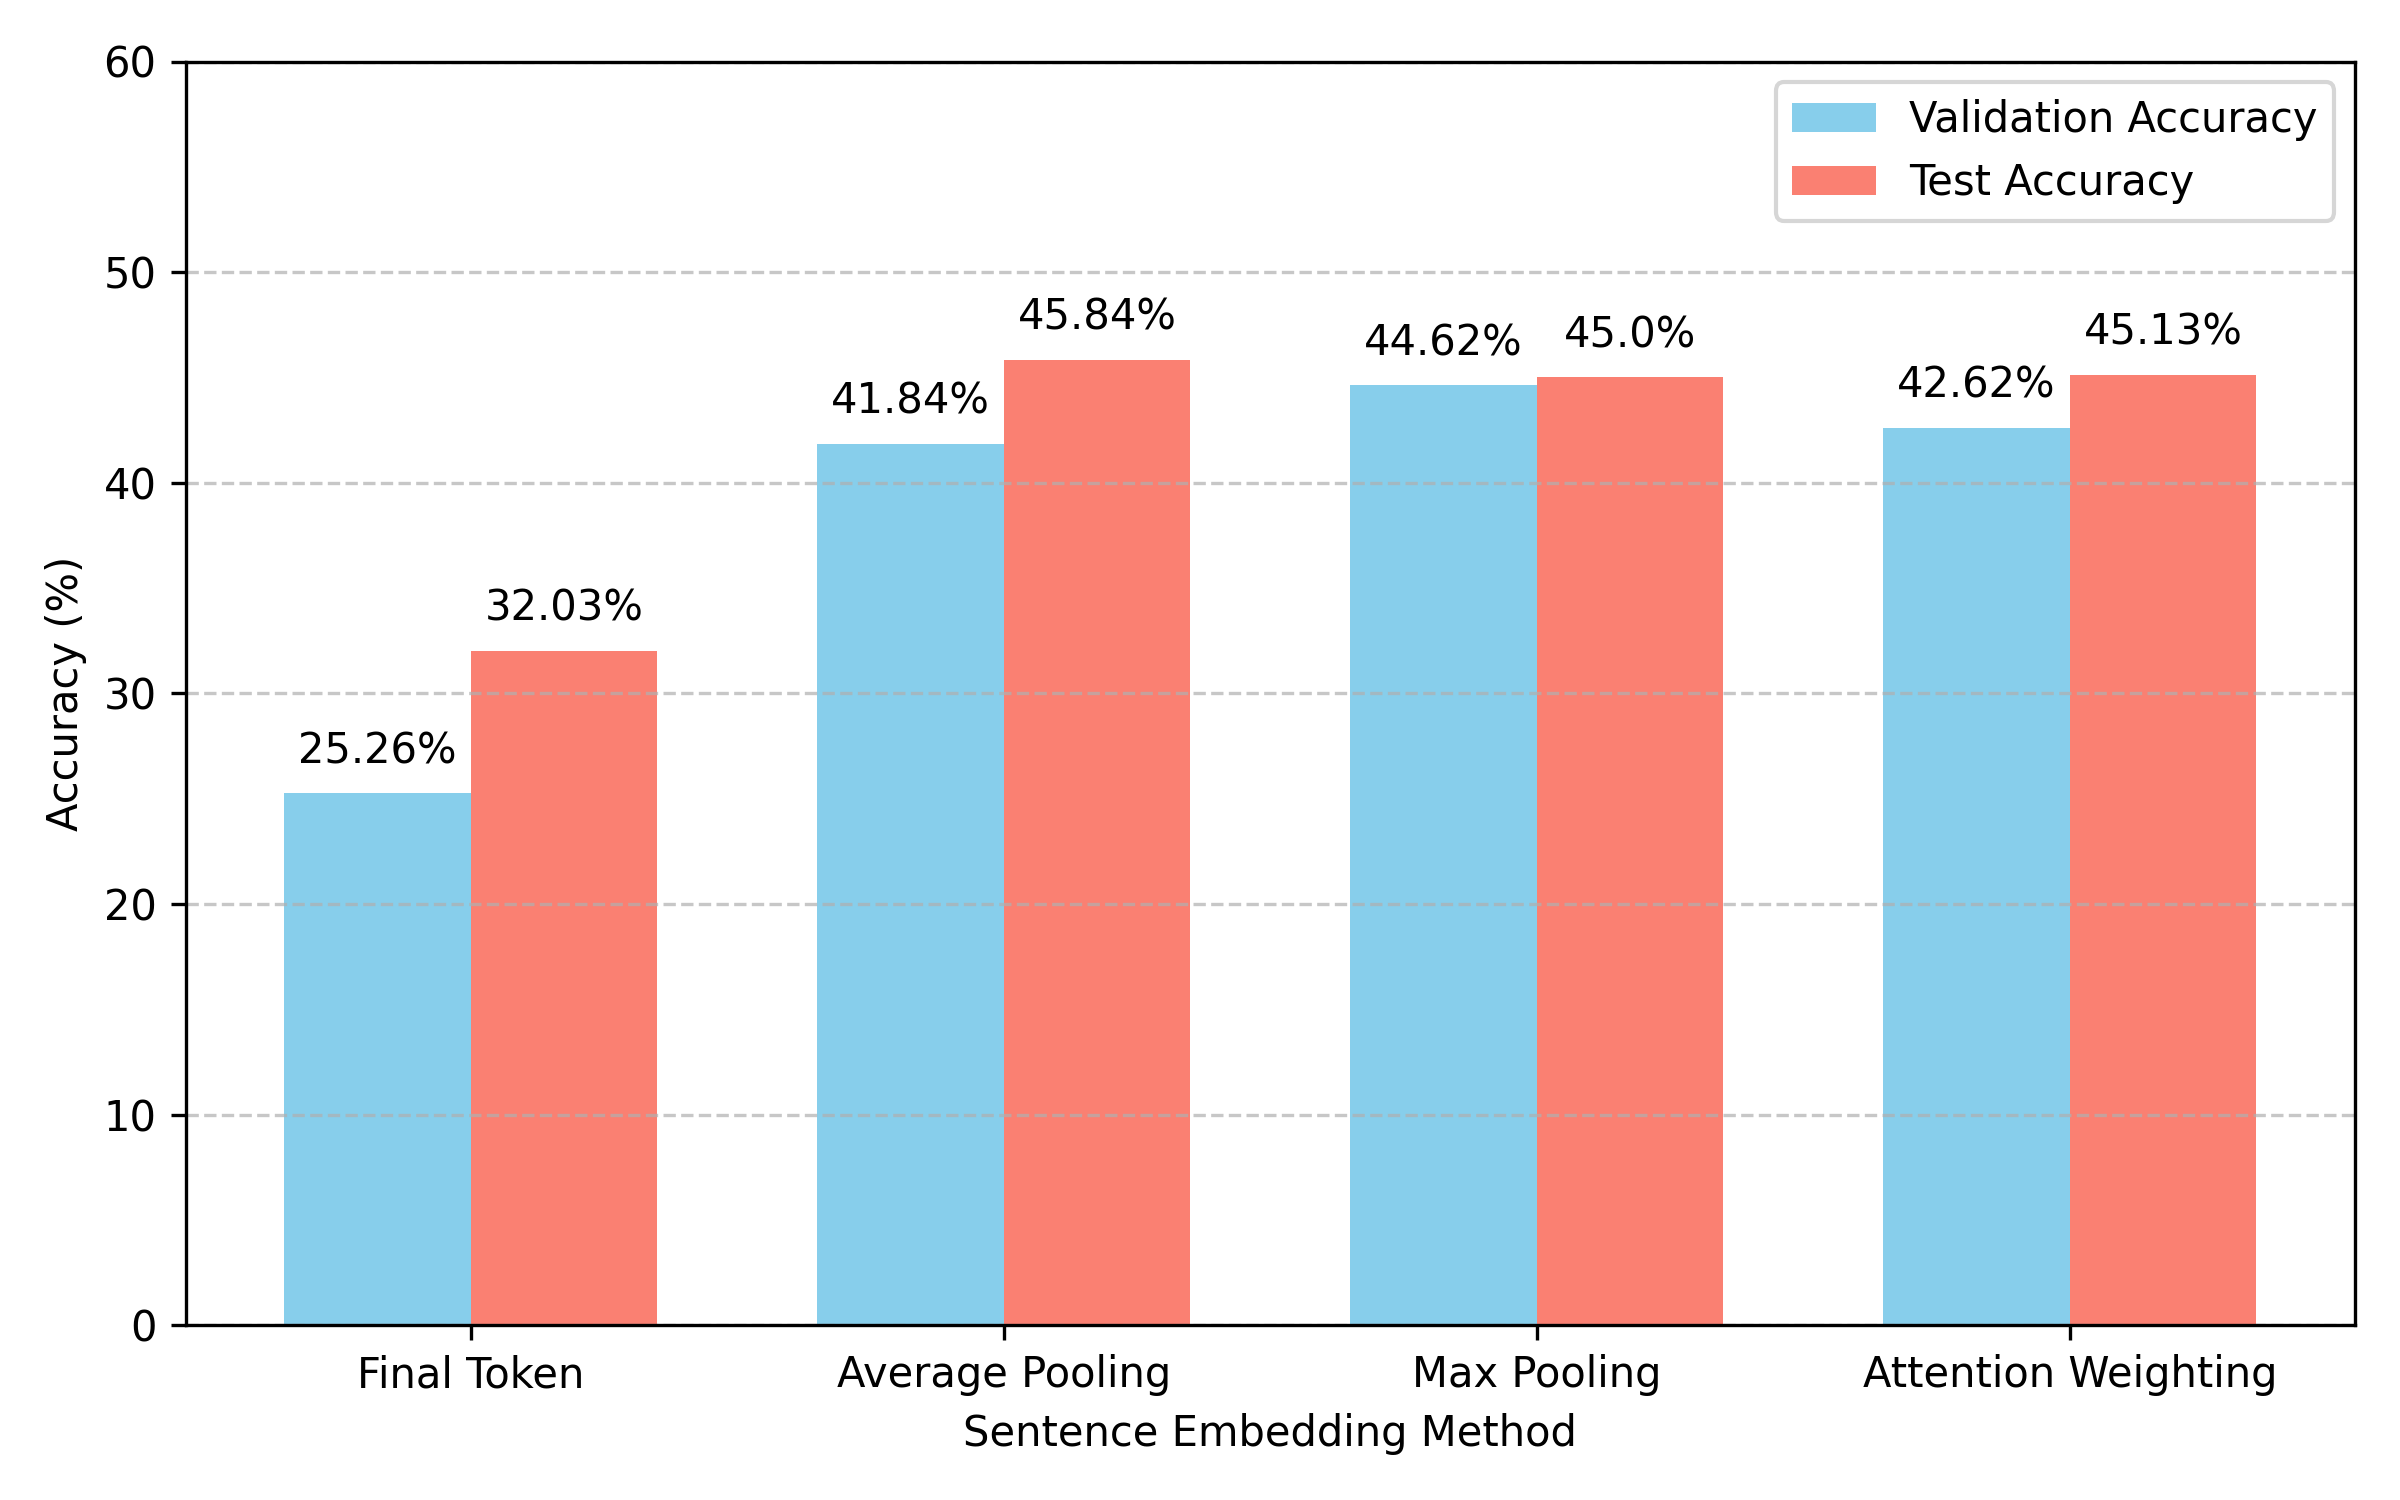
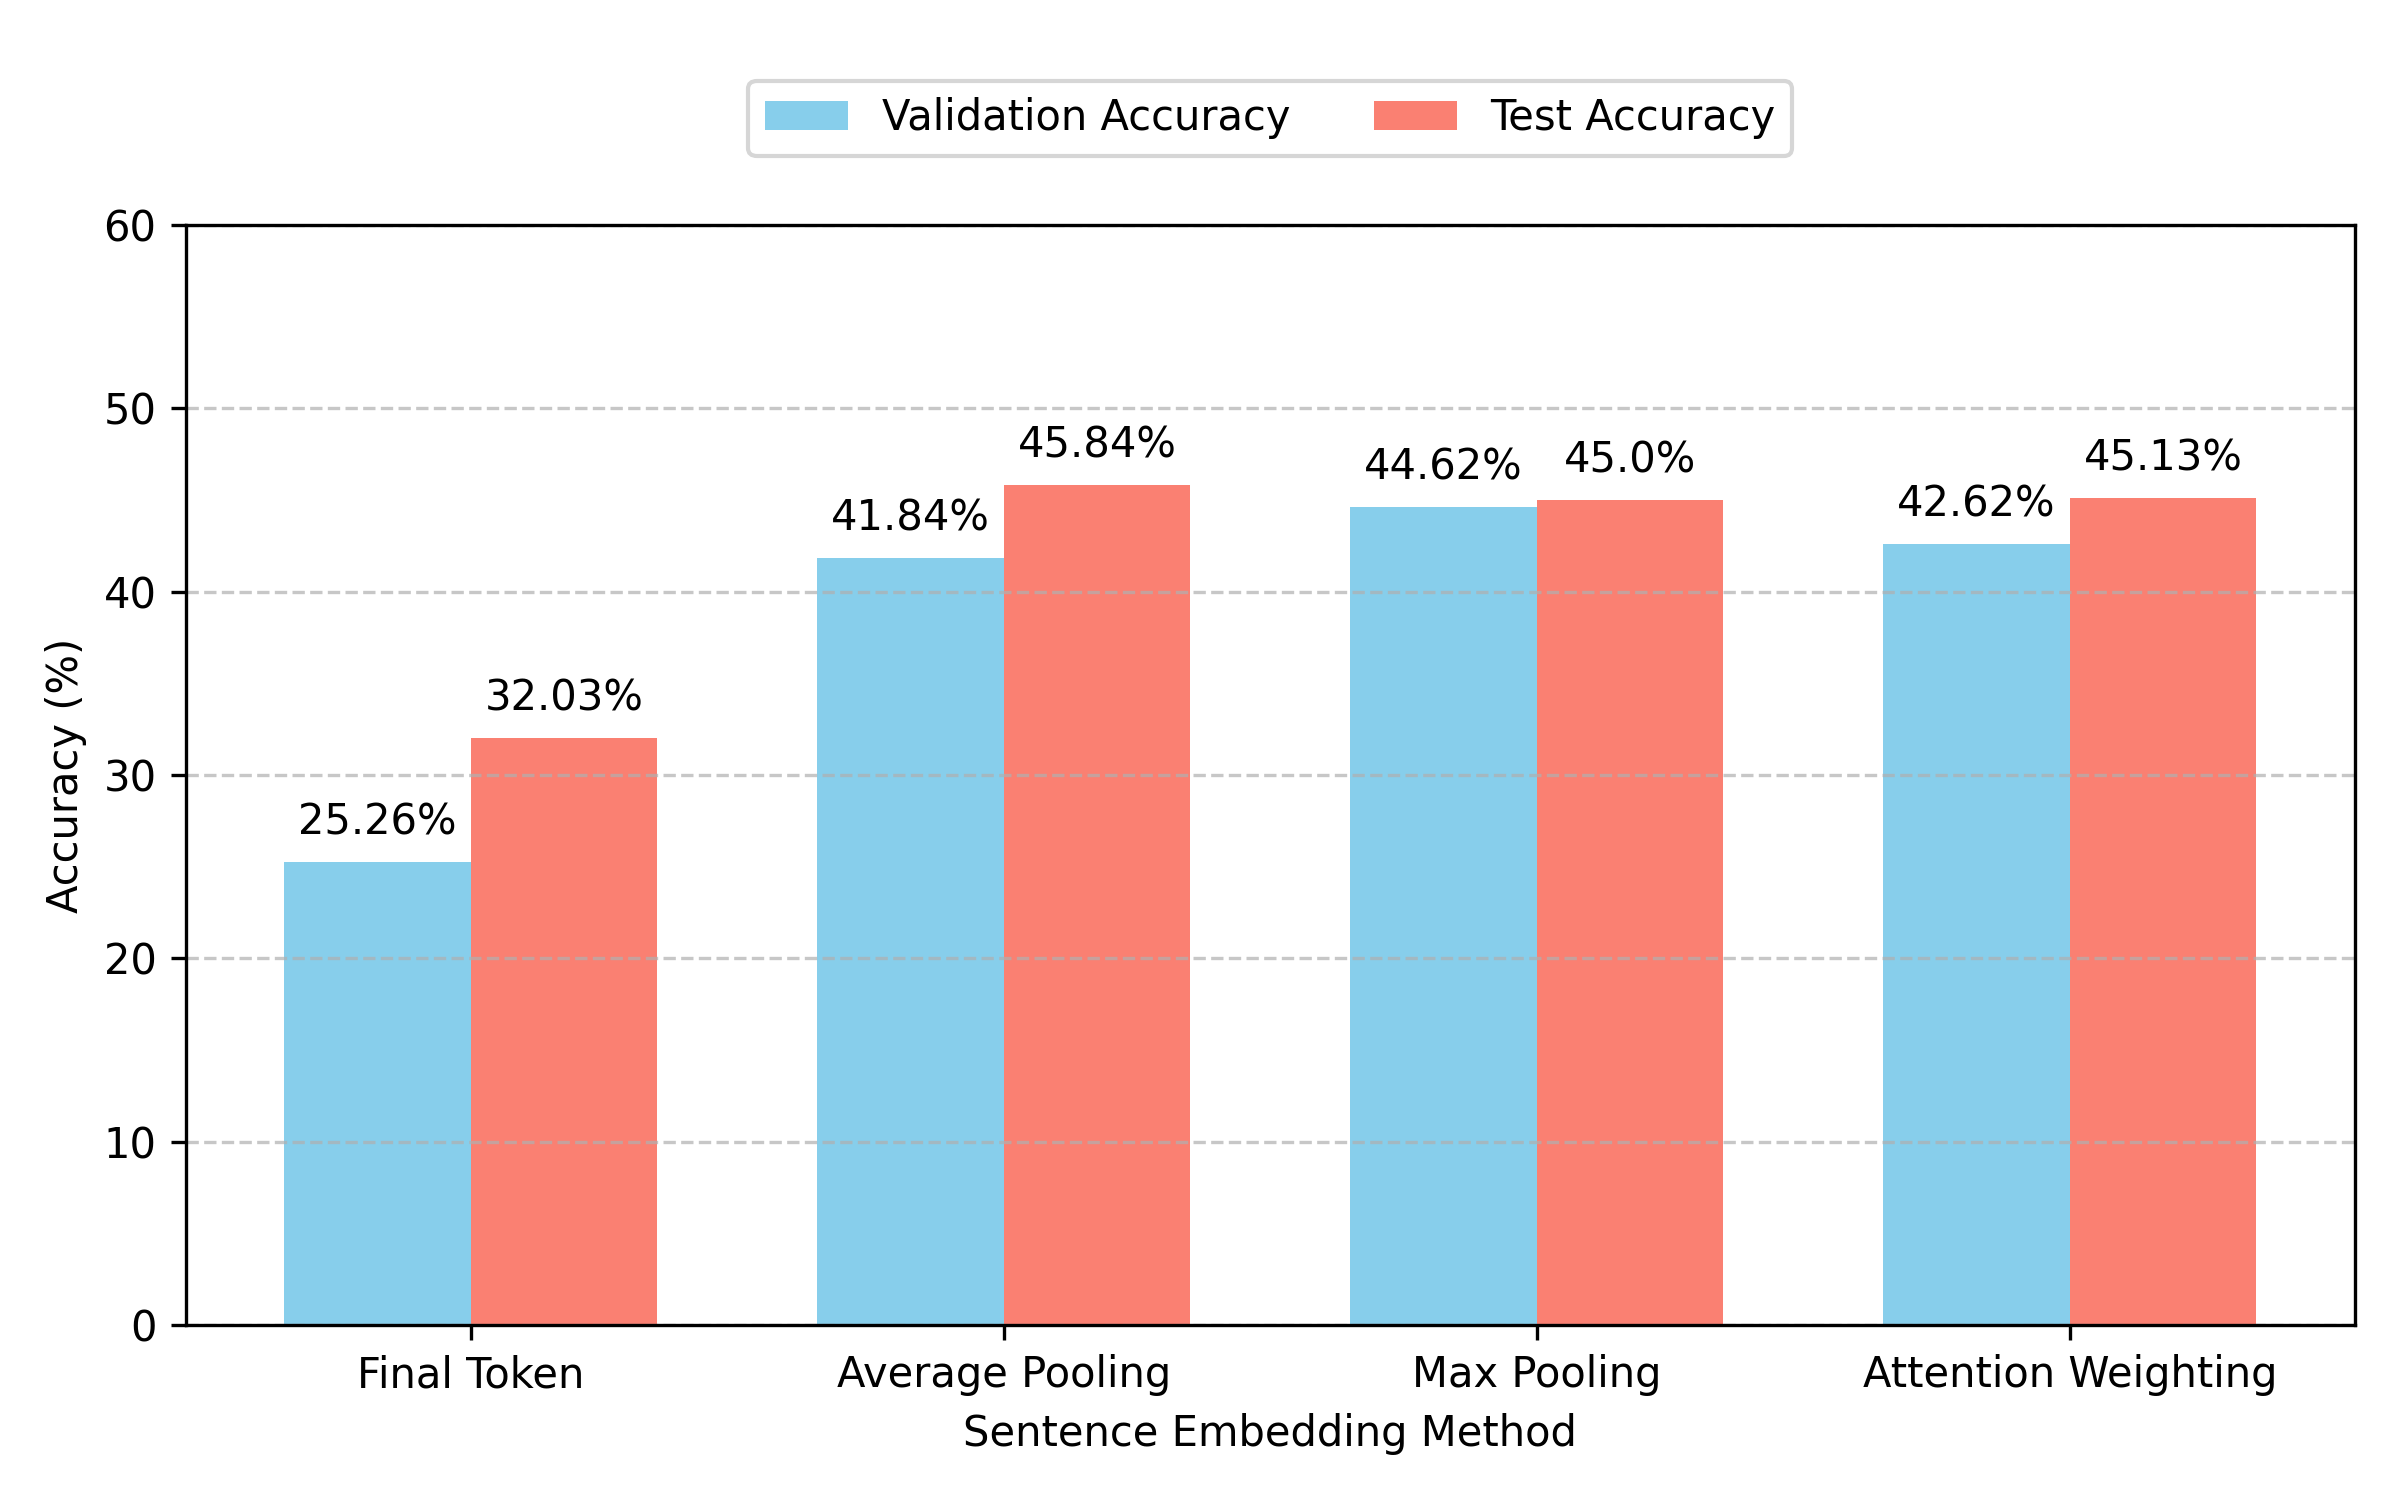
figures

diff --git a/plot-task3.py b/plot-task3.py
@@ -1,14 +1,14 @@
 import matplotlib.pyplot as plt
 import numpy as np
 
-# Data from Task 2
-labels = ['Random', 'GloVe', 'FastText', 'Word2Vec']
-val_acc = [24.21, 24.21, 24.24, 23.71]
-test_acc = [27.56, 17.54, 20.09, 27.83]
+# Data from Task 3
+methods = ['Final Token', 'Average Pooling', 'Max Pooling', 'Attention Weighting']
+val_acc = [25.26, 41.84, 44.62, 42.62]  # Validation accuracy
+test_acc = [32.03, 45.84, 45.00, 45.13]  # Test accuracy
 
 # Bar width and positions
 bar_width = 0.35
-x = np.arange(len(labels))
+x = np.arange(len(methods))
 
 # Create figure
 plt.figure(figsize=(8, 5))
@@ -16,22 +16,19 @@ plt.bar(x - bar_width/2, val_acc, bar_width, label='Validation Accuracy', color=
 plt.bar(x + bar_width/2, test_acc, bar_width, label='Test Accuracy', color='salmon')
 
 # Add value labels on top of bars
-for i in range(len(labels)):
+for i in range(len(methods)):
     plt.text(x[i] - bar_width/2, val_acc[i] + 1, f'{val_acc[i]}%', ha='center', va='bottom')
     plt.text(x[i] + bar_width/2, test_acc[i] + 1, f'{test_acc[i]}%', ha='center', va='bottom')
 
 # Customize plot
-plt.xlabel('Model Configuration')
+plt.xlabel('Sentence Embedding Method')
 plt.ylabel('Accuracy (%)')
-plt.xticks(x, labels)
-plt.legend(loc='upper center', bbox_to_anchor=(0.5, 1.15), ncol=2)
-plt.ylim(0, 30)  # Adjust y-limit for better visibility
+plt.xticks(x, methods)
+plt.legend()
+plt.ylim(0, 60)  # Adjust y-limit for better visibility
 plt.grid(axis='y', linestyle='--', alpha=0.7)
 
-# Adjust layout to leave space for legend
+# Save the figure
 plt.tight_layout()
-plt.subplots_adjust(top=0.85)  # Leave more space at the top
-
-# Save and display
-plt.savefig('figures/task2.png', dpi=300)
+plt.savefig('figures/task3.png', dpi=300)
 plt.show()

diff --git a/plot-task4.py b/plot-task4.py
@@ -1,10 +1,10 @@
 import matplotlib.pyplot as plt
 import numpy as np
 
-# Data from Task 2
-labels = ['Random', 'GloVe', 'FastText', 'Word2Vec']
-val_acc = [24.21, 24.21, 24.24, 23.71]
-test_acc = [27.56, 17.54, 20.09, 27.83]
+# Data from Task 4
+labels = ['Bi-GRU', 'Bi-LSTM', 'CNN']
+val_acc = [80.64, 85.85, 87.93]  # Validation accuracy
+test_acc = [88.25, 84.65, 91.18]  # Test accuracy
 
 # Bar width and positions
 bar_width = 0.35
@@ -21,11 +21,11 @@ for i in range(len(labels)):
     plt.text(x[i] + bar_width/2, test_acc[i] + 1, f'{test_acc[i]}%', ha='center', va='bottom')
 
 # Customize plot
-plt.xlabel('Model Configuration')
+plt.xlabel('Model Architecture')
 plt.ylabel('Accuracy (%)')
 plt.xticks(x, labels)
 plt.legend(loc='upper center', bbox_to_anchor=(0.5, 1.15), ncol=2)
-plt.ylim(0, 30)  # Adjust y-limit for better visibility
+plt.ylim(0, 100)  # Adjust y-limit for better visibility
 plt.grid(axis='y', linestyle='--', alpha=0.7)
 
 # Adjust layout to leave space for legend
@@ -33,5 +33,5 @@ plt.tight_layout()
 plt.subplots_adjust(top=0.85)  # Leave more space at the top
 
 # Save and display
-plt.savefig('figures/task2.png', dpi=300)
+plt.savefig('figures/task4.png', dpi=300)
 plt.show()
